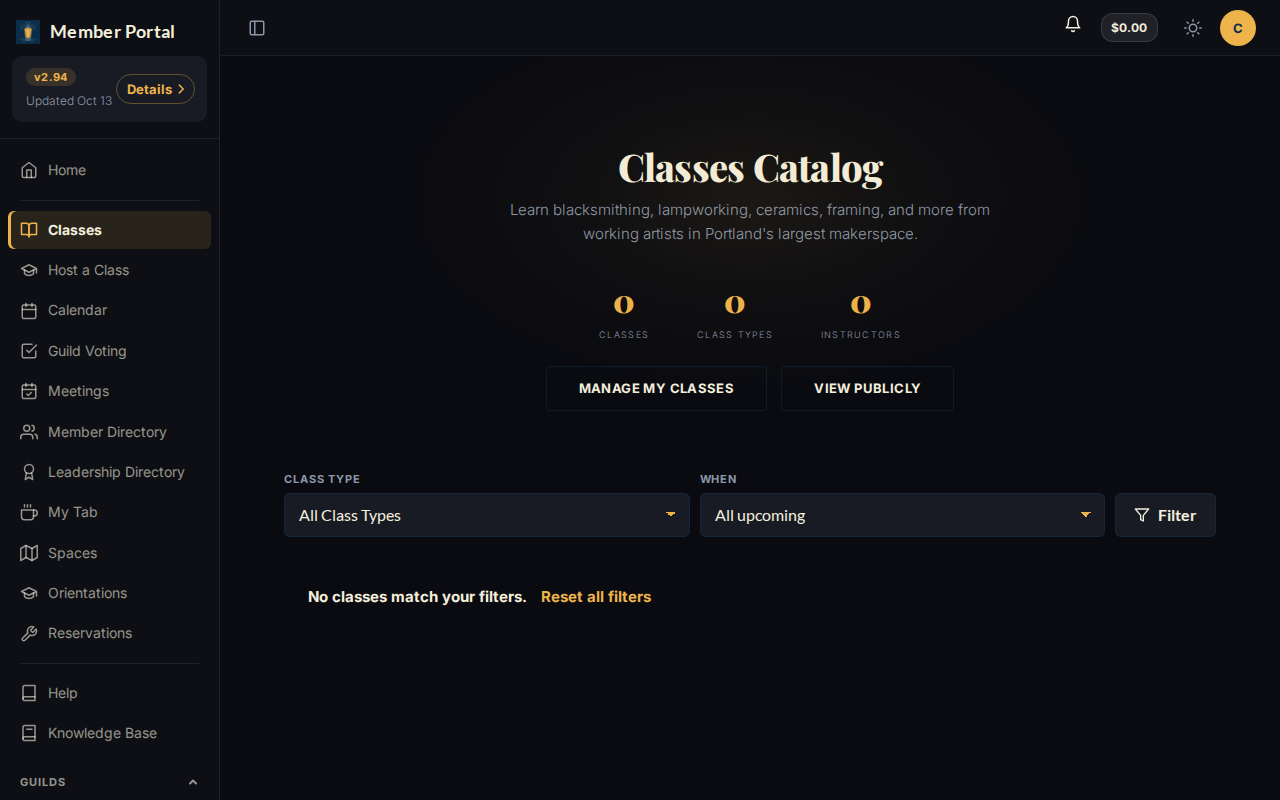
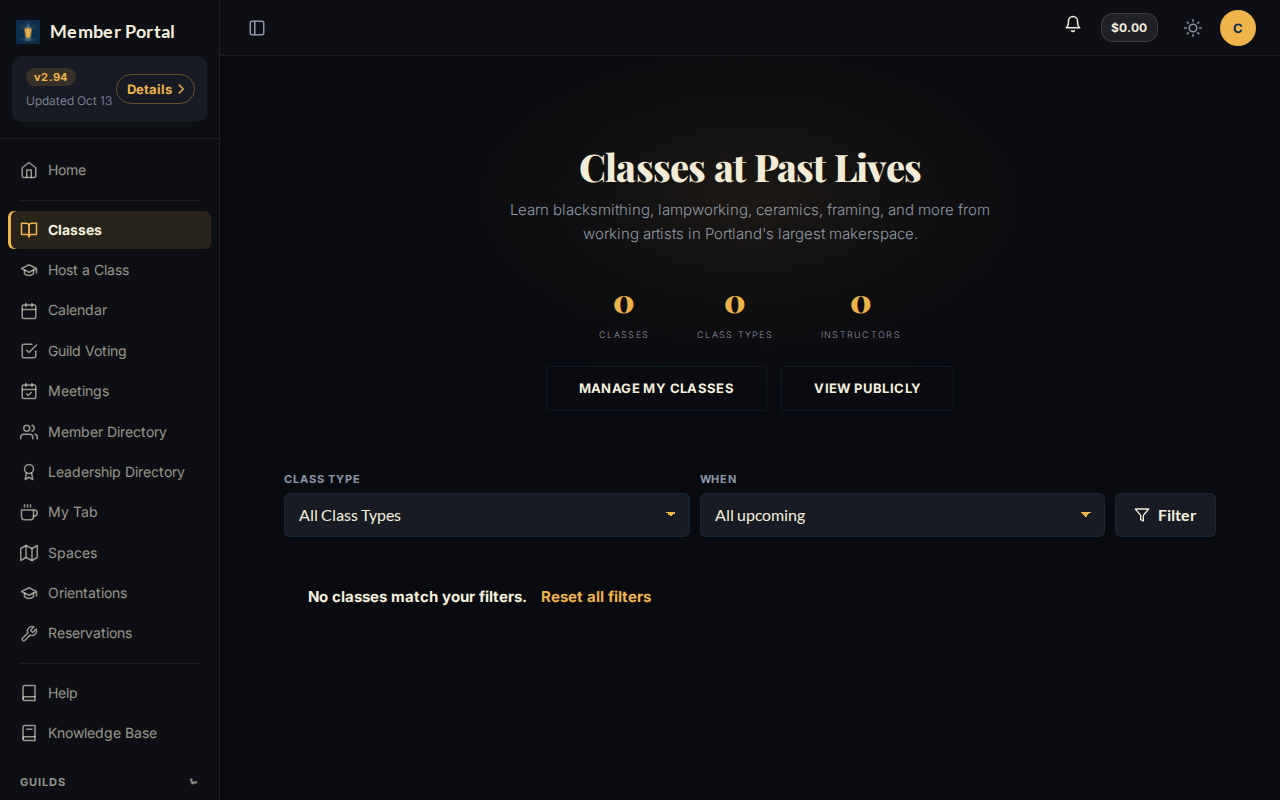
[classes] The class list heading reads Classes at Past Lives
Claude-Session: https://claude.ai/code/session_01N6tULe1h9JtYvTuKSbiACV

Changed region(s): [[0.4375, 0.1875, 0.7188, 0.25]]

diff --git a/templates/classes/public/list.html b/templates/classes/public/list.html
@@ -5,7 +5,7 @@
 
 {% block portal_content %}
 <div id="hero">
-  <h1>Classes Catalog</h1>
+  <h1>Classes at Past Lives</h1>
   <p>Learn blacksmithing, lampworking, ceramics, framing, and more from working artists in Portland's largest makerspace.</p>
   <div id="hero-stats">
     <div id="hero-classes-stat">{% include "classes/public/_hero_classes_stat.html" %}</div>
